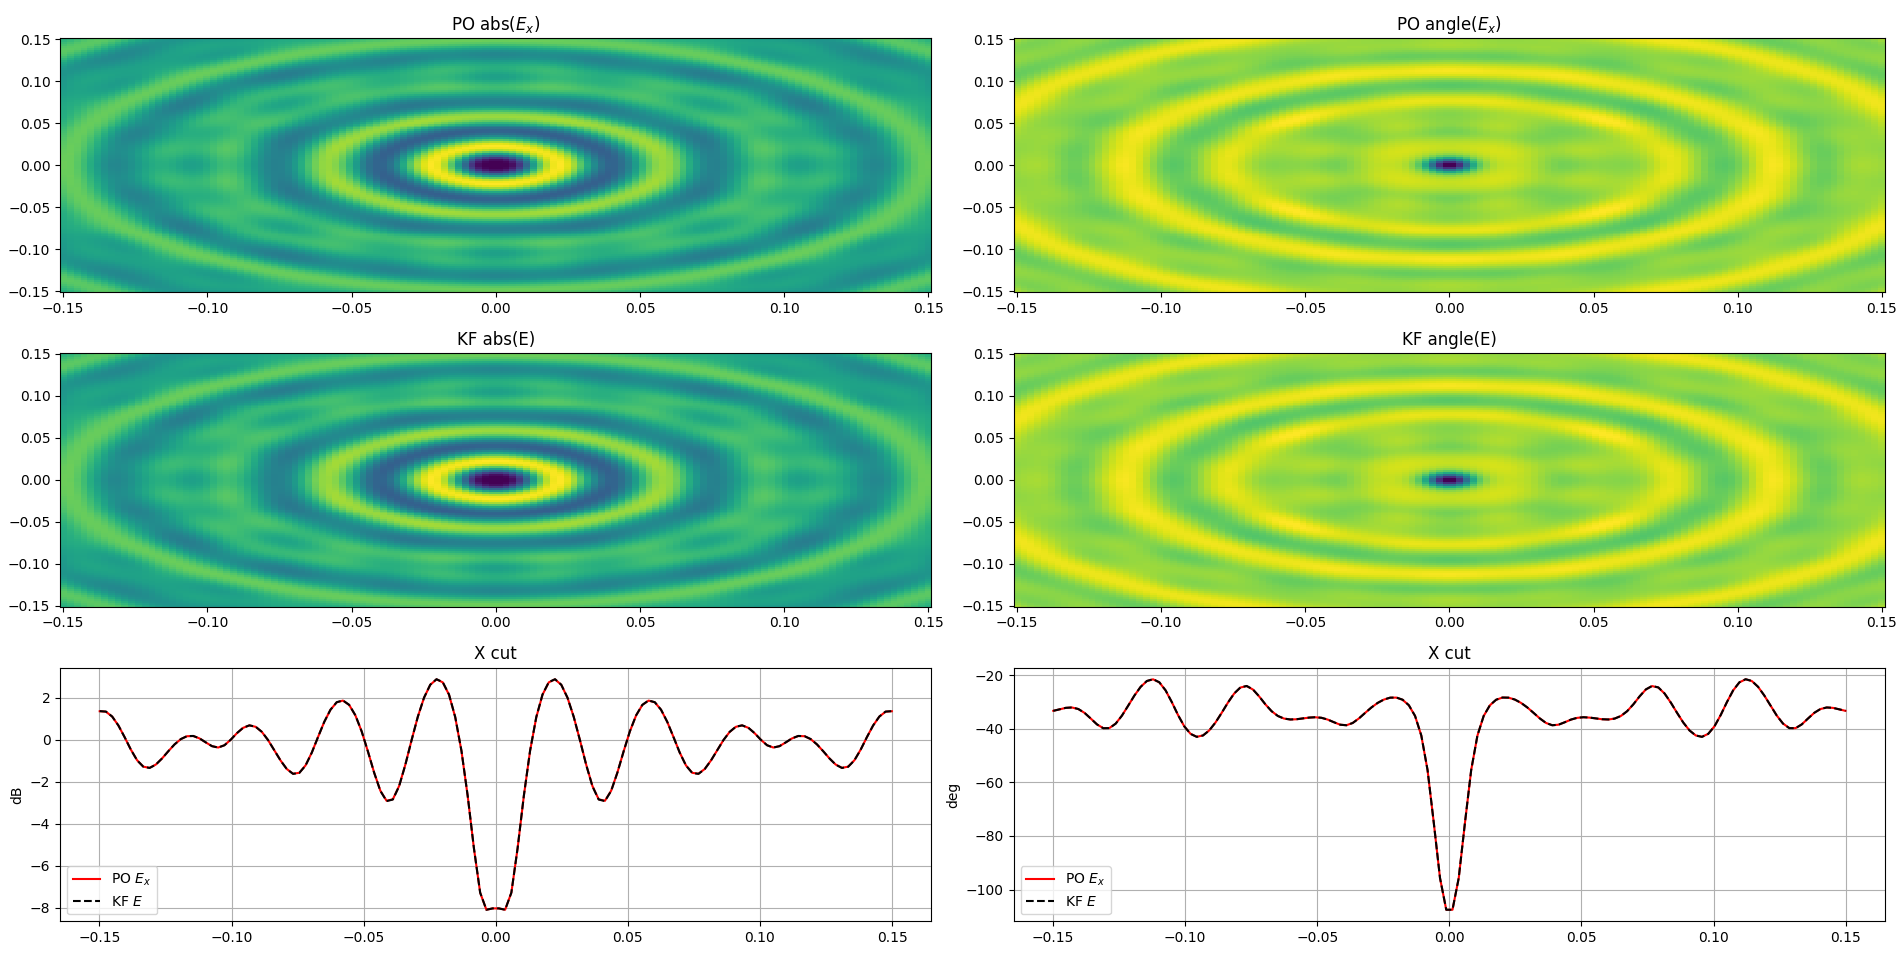
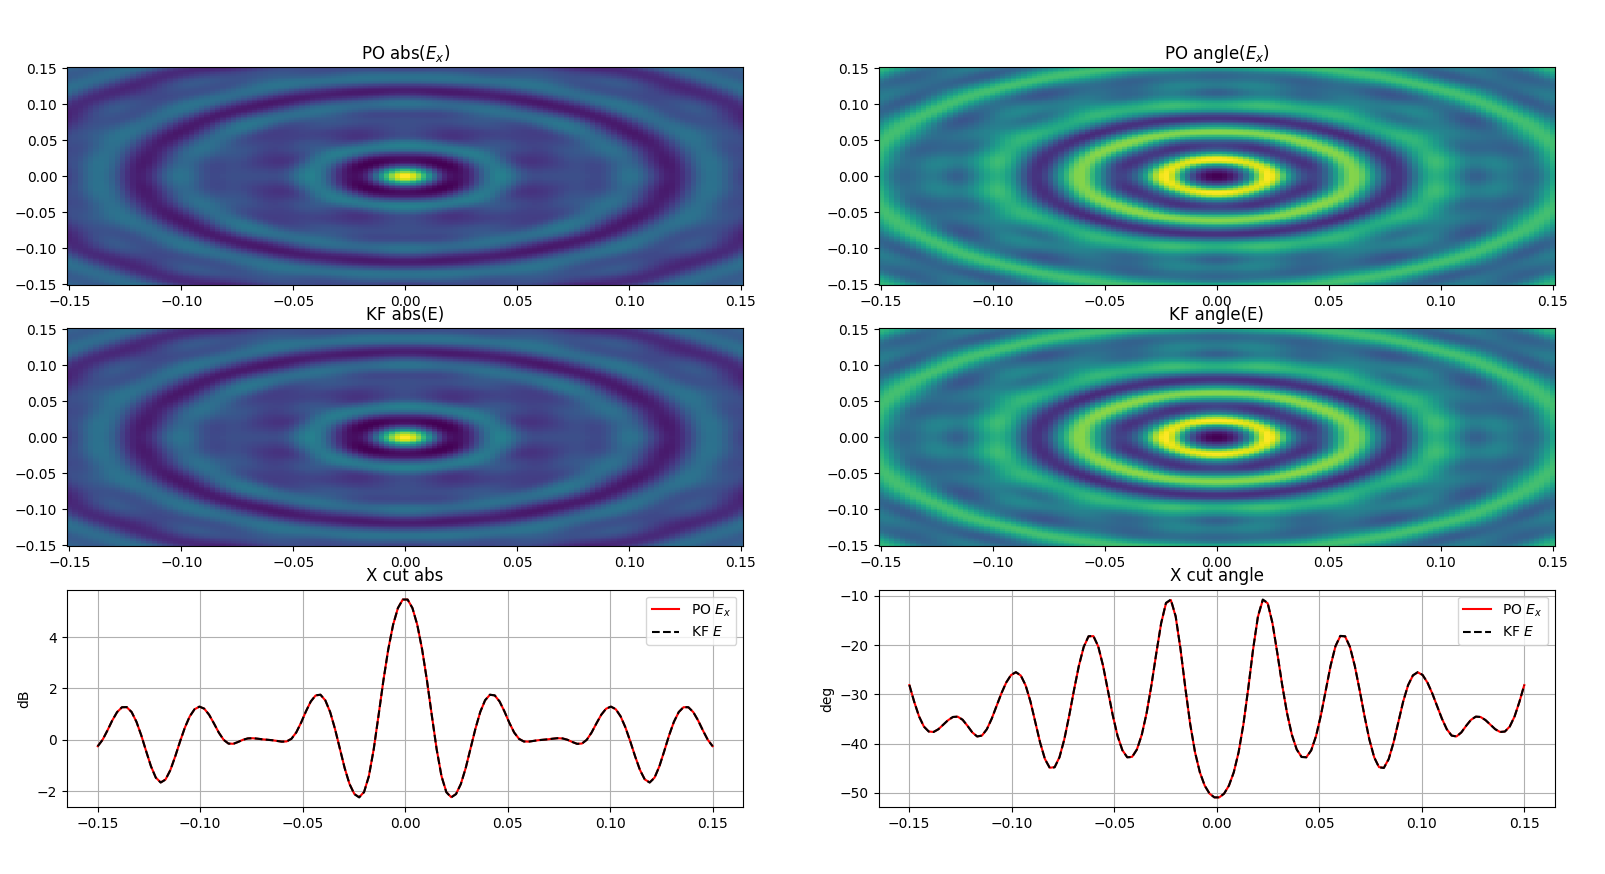
modify kf test

diff --git a/optics/po/example.py b/optics/po/example.py
@@ -22,7 +22,7 @@ plane_points = 128
 
 #target points where to compute the E_r, H_r. Just took a plane at a given z
 reflect_width = 100*wavel#8*apu.m
-reflect_height = 2000*wavel #plane_height-1*wavel
+reflect_height = 2101*wavel #plane_height-1*wavel
 reflect_points = 128
 
 ##source parameters
@@ -67,11 +67,48 @@ print("parallel integration took %.4f"%(time.time()-start))
 
 ##vectorized
 start = time.time()
-E_r_k = kirchhoff_propagation_vector(plane_pos, -n, ds, E_i_kf, scatter_pos, wavel)
+E_r_k = kirchhoff_propagation_batch(plane_pos, -n, ds, E_i_kf, scatter_pos, wavel,
+                                    max_threads=max_threads, batch_size=batch_size)
 print("vector integration took %.4f"%(time.time()-start))
 
 
 E_po = E_r_po.reshape((reflect_points, reflect_points,3))*apu.V/apu.m
 E_kf = E_r_k.reshape((reflect_points, reflect_points))
+
+
+fig, axes = plt.subplots(3,2)
+
+axes[0,0].pcolormesh(xv_s.to_value(apu.m), yv_s.to_value(apu.m), np.abs(E_po[:,:,0].to_value(apu.V/apu.m)))
+axes[0,1].pcolormesh(xv_s.to_value(apu.m), yv_s.to_value(apu.m), np.angle(E_po[:,:,0].to_value(apu.V/apu.m)))
+axes[1,0].pcolormesh(xv_s.to_value(apu.m), yv_s.to_value(apu.m), np.abs(E_kf[:,:].to_value(apu.V/apu.m)))
+axes[1,1].pcolormesh(xv_s.to_value(apu.m), yv_s.to_value(apu.m), np.angle(E_kf[:,:].to_value(apu.V/apu.m)))
+
+axes[2,0].plot(xv_s[0,:].to_value(apu.m), 20*np.log10(np.abs(E_po[reflect_points//2,:,0].to_value(apu.V/apu.m))), color='red', label='PO $E_{x}$')
+axes[2,0].plot(xv_s[0,:].to_value(apu.m), 20*np.log10(np.abs(E_kf[reflect_points//2,:].to_value(apu.V/apu.m))), color='black', ls='--', label='KF $E}$')
+
+axes[2,1].plot(xv_s[0,:].to_value(apu.m), np.rad2deg(np.angle(E_po[reflect_points//2,:,0].to_value(apu.V/apu.m))), color='red', label='PO $E_{x}$')
+axes[2,1].plot(xv_s[0,:].to_value(apu.m), np.rad2deg(np.angle(E_kf[reflect_points//2,:].to_value(apu.V/apu.m))), color='black', ls='--', label='KF $E$')
+
+axes[0,0].set_title("PO abs($E_x$)")
+axes[0,1].set_title("PO angle($E_x$)")
+
+axes[1,1].set_title("KF angle(E)")
+axes[1,0].set_title("KF abs(E)")
+
+
+axes[2,0].set_title("X cut abs")
+axes[2,1].set_title("X cut angle")
+axes[2,0].set_ylabel('dB')
+axes[2,1].set_ylabel('deg')
+axes[2,0].grid()
+axes[2,1].grid()
+axes[2,0].legend()
+axes[2,1].legend()
+
+
+
+plt.show()
+
+
 
 
